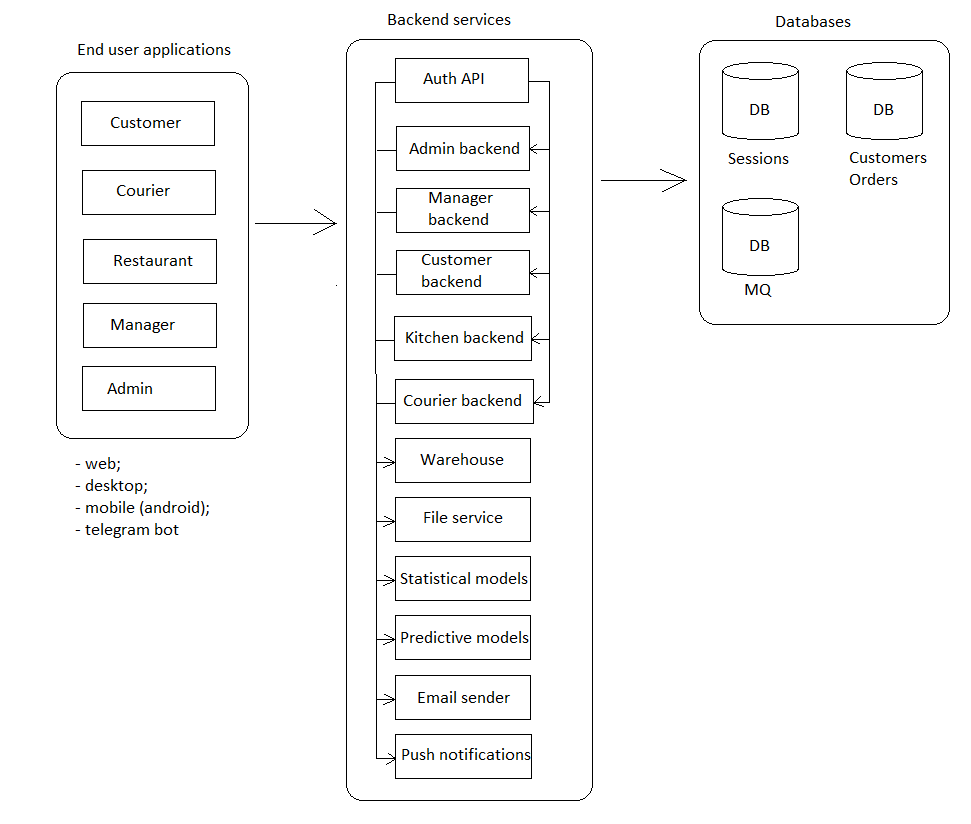
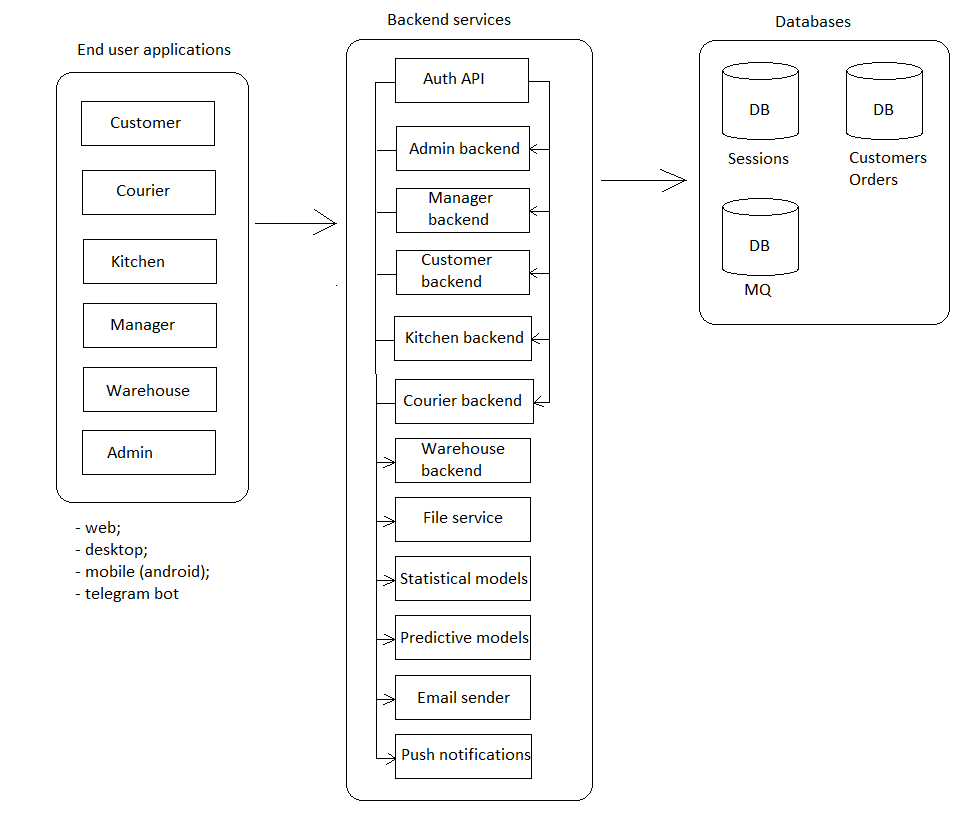
edited docs

diff --git a/README.ru.md b/README.ru.md
@@ -7,30 +7,30 @@
 ## Требования к системе и её описание 
 
 Описание системы: 
-- Высоконагруженная система: каждый элемент системы должен быть способен выдержать нагрузку до 5 тыс. запросов в секунду на запись и чтение
-- Виды клиентских приложений по типу конечного пользователя: для потребителей, ресторан, курьер, админ
-- Виды клиентских приложений по типу развертывания: вэб, десктоп, мобильное (Android), бот в телеграм 
-- Бэкенд сервисы: [authentication API](docs/authapi.ru.md), [customer backend](docs/customerbackend.ru.md), kitchen backend, [courier backend](docs/courier.ru.md), [manager backend](docs/managerbackend.ru.md), [file service](docs/fileservice.ru.md), statistical model, predictive model, [email sender](docs/emailsender.ru.md), [push notifications](docs/pushnotifications.ru.md) 
-- Внешние сервисы: Firebase, email delivery service, payment gateway 
-- Виды оплаты: наличная при получении, через валидатор при получении, через приложение банка по QR-коду, в приложении с помощью CVC
-- Загрузка файлов на сервер (изображения, видео, Word, Excel, PDF)
-- Загрузка файлов с сервера (изображения, Word, Excel, PDF)
-- Формирование QR-кода для оплаты
-- Отправка уведомлений об акциях на почту и/или на телеграм
-- Отображение информации по заказам в виде списков: список всех заказов, информация по конкретному заказу (фактическое время оформления, готовки и доставки; ориентировочное время готовки и доставки, общая сумма заказа, стоимость позиций заказа, место доставки; статус)
-- Статистика по многим заказам в виде дашбордов (по времени: день, неделя, месяц, год, всё время; по типу графиков: Line chart, Bar chart, Histogram, Scatter plot и т.д.; метрики: общая сумма заказа, стоимость позиции, количество заказов, количество позиций, время оформления заказов, место доставки)
-- Метрики для внутреннего пользования: фактическое время оформления заказов, готовки и доставки; общая сумма заказа, стоимость позиций заказа, количество заказов, количество позиций, время оформления заказов, место доставки, место регистрации пользователя 
-- Предиктивные модели по всем метрикам: для группы пользователей (фильтр: город, страна, возраст, пол, совпадения в ФИО пользователей, место доставки, место регистрации; отображение: список пользователей, краткая информация о пользователе)
-- Отслеживание местоположения курьера
+- Высоконагруженная система: каждый элемент системы должен быть способен выдержать нагрузку до 5 тыс. запросов в секунду на запись и чтение.
+- Виды клиентских приложений по типу конечного пользователя: для [потребителей](docs/frontend/customerclient.ru.md), [кухни](docs/frontend/kitchenclient.ru.md), [склада](docs/frontend/warehouseclient.ru.md), [курьеров](docs/frontend/courierclient.ru.md), [менеджеров](docs/frontend/managerclient.ru.md), [админов](docs/frontend/adminclient.ru.md).
+- Виды клиентских приложений по типу развертывания: вэб, десктоп, мобильное (Android), бот в телеграм.
+- Описание бэкенд сервисов: [authentication API](docs/backend/authapi.ru.md), [customer backend](docs/backend/customerbackend.ru.md), [kitchen backend](docs/backend/kitchenbackend.ru.md), [courier backend](docs/backend/courierbackend.ru.md), [manager backend](docs/backend/managerbackend.ru.md), [file service](docs/backend/fileservice.ru.md), [statistical model](docs/backend/statisticalmodel.ru.md), [predictive model](docs/backend/predictivemodel.ru.md), [email sender](docs/backend/emailsender.ru.md), [push notifications](docs/backend/pushnotifications.ru.md).
+- Внешние сервисы: Firebase, email delivery service, payment gateway.
+- Виды оплаты: наличная при получении, через валидатор при получении, через приложение банка по QR-коду, в приложении с помощью CVC.
+- Загрузка файлов на сервер (изображения, видео, Word, Excel, PDF).
+- Загрузка файлов с сервера (изображения, Word, Excel, PDF).
+- Формирование QR-кода для оплаты.
+- Отправка уведомлений об акциях на почту и/или на телеграм.
+- Отображение информации по заказам в виде списков: список всех заказов, информация по конкретному заказу (фактическое время оформления, готовки и доставки; ориентировочное время готовки и доставки, общая сумма заказа, стоимость позиций заказа, место доставки; статус).
+- Статистика по многим заказам в виде дашбордов (по времени: день, неделя, месяц, год, всё время; по типу графиков: Line chart, Bar chart, Histogram, Scatter plot и т.д.; метрики: общая сумма заказа, стоимость позиции, количество заказов, количество позиций, время оформления заказов, место доставки).
+- Метрики для внутреннего пользования: фактическое время оформления заказов, готовки и доставки; общая сумма заказа, стоимость позиций заказа, количество заказов, количество позиций, время оформления заказов, место доставки, место регистрации пользователя.
+- Предиктивные модели по всем метрикам: для группы пользователей (фильтр: город, страна, возраст, пол, совпадения в ФИО пользователей, место доставки, место регистрации; отображение: список пользователей, краткая информация о пользователе).
+- Отслеживание местоположения курьера.
 
 Технические требования к системе: 
-- Распределенная система храненения записей в БД: сделать анализ по БД, которая оптимальна для записи и для чтения 
-- Несколько типов хранилищ: SQL, сессии, file storage
-- Балансировка нагрузки - Load balancer 
-- Вэб (ASP.NET Core MVC + React), десктоп (WPF) 
-- Использование gRPC, RabbitMQ, ElasticSearch, WebAPI и worker
-- У RabbitMQ может быть несколько "подписчиков"
-- Асинхронность и параллельность (например, при формировании изображений)
+- Распределенная система храненения записей в БД: сделать анализ по БД, которая оптимальна для записи и для чтения.
+- Несколько типов хранилищ: SQL, сессии, file storage.
+- Балансировка нагрузки - Load balancer.
+- Вэб (ASP.NET Core MVC + React), десктоп (WPF).
+- Использование gRPC, RabbitMQ, ElasticSearch, WebAPI и worker.
+- У RabbitMQ может быть несколько "подписчиков".
+- Асинхронность и параллельность (например, при формировании изображений).
 
 Общая модель системы: 
 

diff --git a/docs/backend/authapi.ru.md b/docs/backend/authapi.ru.md
@@ -8,12 +8,12 @@ API для аутентификации
 
 Общая модель системы: 
 
-![system_overall](img/system_overall.png)
+![system_overall](../img/system_overall.png)
 
 Описание API для аутентификации: 
 - Часть высоконагруженной системы: каждый элемент системы должен быть способен выдержать нагрузку до 5 тыс. запросов в секунду на запись и чтение.
-- Данный сервис производит запись/чтение сессионных токенов в БД и через брокер сообщений уведомляет сервисы, в которых критично наличие токенов, об изменениях в БД, связанных с токенами (например, в число таких сервисов входят [customer backend](customerbackend.ru.md), kitchen backend, [courier backend](courierbackend.ru.md), [manager backend](managerbackend.ru.md)).
-- В качестве клиентского приложения может подразумеваться любое из приведенных на рисунке в разделе End user applications.
+- Данный сервис производит запись/чтение сессионных токенов в БД и через брокер сообщений уведомляет сервисы, в которых критично наличие токенов, об изменениях в БД, связанных с токенами (например, в число таких сервисов входят [customer backend](customerbackend.ru.md), [kitchen backend](kitchenbackend.ru.md), [courier backend](courierbackend.ru.md), [manager backend](managerbackend.ru.md)).
+- К данному сервису могут обращаться все клиентские приложения, приведенные на рисунке выше в разделе "End user applications": [customer](../frontend/customerclient.ru.md), [kitchen](../frontend/kitchenclient.ru.md), [courier](../frontend/courierclient.ru.md), [manager](../frontend/managerclient.ru.md), [admin](../frontend/adminclient.ru.md).
 - В качестве брокера сообщений используется RabbitMQ.
 - В качестве БД используется PostgreSQL.
 - В целях уменьшения риска компрометации персональных данных, сервис не хранит никаких данных, связанных с пользователями: только GUID пользователей, а также таблицы, связанные с аутентификацией ("сессионный токен", "временная регистрация", "подозрительная регистрация").

diff --git a/docs/frontend/customerclient.ru.md b/docs/frontend/customerclient.ru.md
@@ -8,11 +8,11 @@
 
 Общая модель системы: 
 
-![system_overall](img/system_overall.png)
+![system_overall](../img/system_overall.png)
 
 Описание приложения для потребителей: 
 - Часть высоконагруженной системы: каждый элемент системы должен быть способен выдержать нагрузку до 5 тыс. запросов в секунду на запись и чтение.
-- Интегрируется напрямую с [authentication API](authapi.ru.md), [customer backend](customerbackend.ru.md), [file service](fileservice.ru.md), statistical model, predictive model, [email sender](emailsender.ru.md), [push notifications](pushnotifications.ru.md).
+- Интегрируется напрямую с [authentication API](../backend/authapi.ru.md), [customer backend](../backend/customerbackend.ru.md), [file service](../backend/fileservice.ru.md), [statistical model](../backend/statisticalmodel.ru.md), [predictive model](../backend/predictivemodel.ru.md), [email sender](../backend/emailsender.ru.md), [push notifications](../backend/pushnotifications.ru.md).
 - Отображение меню: 
     - Выгружается из бэкенда: категории, отдельные позиции (наименование, картинка, цена, описание);
     - Указывается пользователем: размер, количество.
@@ -70,4 +70,4 @@
     - предпочитаемый вид оплаты,
     - привязанные карты.
 
-Описание бэкенд-сервиса для данного приложения представлено по [данной ссылке](customerbackend.ru.md).
+Описание бэкенд-сервиса для данного приложения представлено по [данной ссылке](../backend/customerbackend.ru.md).

diff --git a/docs/frontend/managerclient.ru.md b/docs/frontend/managerclient.ru.md
@@ -1,6 +1,6 @@
 # managerclient
 
-Доступно на других языках: [English/Английский](managerbackend.md), [Russian/Русский](managerbackend.ru.md). 
+Доступно на других языках: [English/Английский](managerclient.md), [Russian/Русский](managerclient.ru.md). 
 
 Клиентское приложение для менеджера 
 
@@ -8,10 +8,10 @@
 
 Общая модель системы: 
 
-![system_overall](img/system_overall.png)
+![system_overall](../img/system_overall.png)
 
 Описание приложения для менеджера: 
 - Собирает информацию по работе курьеров и поваров (местоположение, загруженность).
 - Есть информация о меню.
 
-Описание бэкенд-сервиса для данного приложения представлено по [данной ссылке](managerbackend.ru.md).
+Описание бэкенд-сервиса для данного приложения представлено по [данной ссылке](../backend/managerbackend.ru.md).

diff --git a/docs/frontend/courierclient.ru.md b/docs/frontend/courierclient.ru.md
@@ -8,7 +8,7 @@
 
 Общая модель системы: 
 
-![system_overall](img/system_overall.png)
+![system_overall](../img/system_overall.png)
 
 Описание приложения для курьера: 
 - Регистрация рюкзака с помощью сканирования QR-кода (для того, чтобы регистрировать начало/конец работы в течение дня и отслеживать местоположение курьера в real time).
@@ -18,4 +18,4 @@
 - Построение наиболее оптимального маршрута для доставки.
 - Отображение местоположения курьера на карте.
 
-Описание бэкенд-сервиса приложения для курьера представлено по [данной ссылке](courierbackend.ru.md).
+Описание бэкенд-сервиса приложения для курьера представлено по [данной ссылке](../backend/courierbackend.ru.md).

diff --git a/docs/backend/customerbackend.ru.md b/docs/backend/customerbackend.ru.md
@@ -8,9 +8,9 @@
 
 Общая модель системы: 
 
-![system_overall](img/system_overall.png)
+![system_overall](../img/system_overall.png)
 
-Описание клиентского приложения представлено по [данной ссылке](customerclient.ru.md). 
+Описание клиентского приложения представлено по [данной ссылке](../frontend/customerclient.ru.md). 
 Понимание того, как будет использоваться клиентское приложение, позволяет сформировать требования к его основному бэкенд-сервису. 
 
 Описание бэкенда приложения для потребителей: 

diff --git a/docs/backend/statisticalmodel.ru.md b/docs/backend/statisticalmodel.ru.md
@@ -6,7 +6,7 @@
 
 Общая модель системы: 
 
-![system_overall](img/system_overall.png)
+![system_overall](../img/system_overall.png)
 
 Описание сервиса для получения статистики: 
 - Предоставление статистик по многим заказам в виде дашбордов (по времени: день, неделя, месяц, год, всё время; по типу графиков: Line chart, Bar chart, Histogram, Scatter plot и т.д.; метрики: общая сумма заказа, стоимость позиции, количество заказов, количество позиций, время оформления заказов, место доставки)

diff --git a/docs/backend/courierbackend.ru.md b/docs/backend/courierbackend.ru.md
@@ -8,9 +8,9 @@
 
 Общая модель системы: 
 
-![system_overall](img/system_overall.png)
+![system_overall](../img/system_overall.png)
 
-Описание клиентского приложения для курьера представлено по [данной ссылке](courierclient.ru.md).
+Описание клиентского приложения для курьера представлено по [данной ссылке](../frontend/courierclient.ru.md).
 
 Описание бэкенда приложения для курьера: 
 - Получает информацию о местоположении курьера.

diff --git a/docs/backend/emailsender.ru.md b/docs/backend/emailsender.ru.md
@@ -2,11 +2,11 @@
 
 Доступно на других языках: [English/Английский](emailsender.md), [Russian/Русский](emailsender.ru.md). 
 
-Отправка email сообщений 
+Сервис отправки email сообщений 
 
 Общая модель системы: 
 
-![system_overall](img/system_overall.png)
+![system_overall](../img/system_overall.png)
 
 Описание сервиса для отправки email сообщений:
 - Отправка уведомлений об акциях на почту и/или на телеграм

diff --git a/docs/backend/managerbackend.ru.md b/docs/backend/managerbackend.ru.md
@@ -8,6 +8,6 @@
 
 Общая модель системы: 
 
-![system_overall](img/system_overall.png)
+![system_overall](../img/system_overall.png)
 
-Описание клиентского приложения представлено по [данной ссылке](managerclient.ru.md).
+Описание клиентского приложения представлено по [данной ссылке](../frontend/managerclient.ru.md).

diff --git a/docs/frontend/kitchenclient.ru.md b/docs/frontend/kitchenclient.ru.md
@@ -1,0 +1,11 @@
+# kitchenclient
+
+Доступно на других языках: [English/Английский](kitchenclient.md), [Russian/Русский](kitchenclient.ru.md). 
+
+Клиентское приложение для сотрудников кухни 
+
+## Требования к системе и его описание 
+
+Общая модель системы: 
+
+![system_overall](../img/system_overall.png)

diff --git a/docs/frontend/warehouseclient.ru.md b/docs/frontend/warehouseclient.ru.md
@@ -1,0 +1,11 @@
+# warehouseclient
+
+Доступно на других языках: [English/Английский](warehouseclient.md), [Russian/Русский](warehouseclient.ru.md). 
+
+Клиенсткое приложение для склада 
+
+## Требования к системе и его описание 
+
+Общая модель системы: 
+
+![system_overall](../img/system_overall.png)
